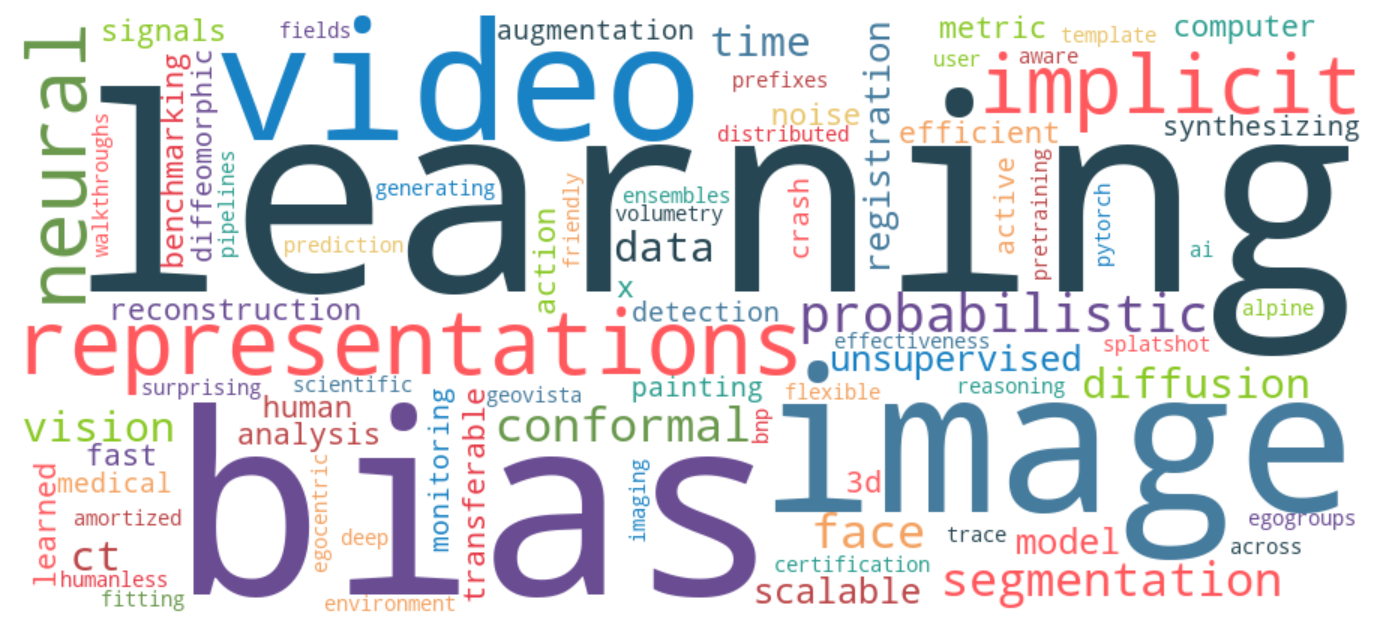
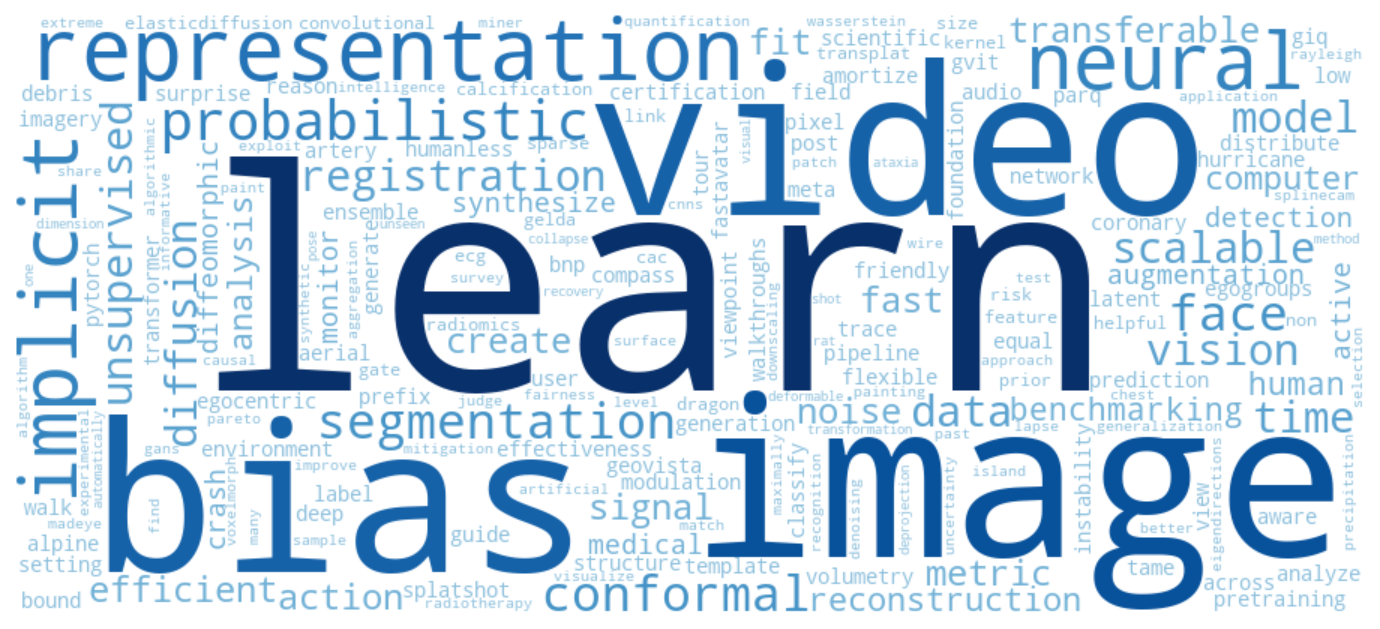
Update word cloud with lemmatization and improved caption

diff --git a/_pages/projects.md b/_pages/projects.md
@@ -9,7 +9,7 @@ nav_order: 2
 
 <div style="text-align: center; margin: 1.5em 0;">
   <img src="/assets/img/wordcloud.png" alt="Research word cloud" style="max-width: 100%; border-radius: 8px;">
-  <div style="font-size: 0.85em; color: #888; margin-top: 0.5em;">Word cloud of all my publication titles.</div>
+  <div style="font-size: 0.85em; color: #888; margin-top: 0.5em;">Word cloud using all my publication titles. Larger/darker words appear more frequently.</div>
 </div>
 
 ---
